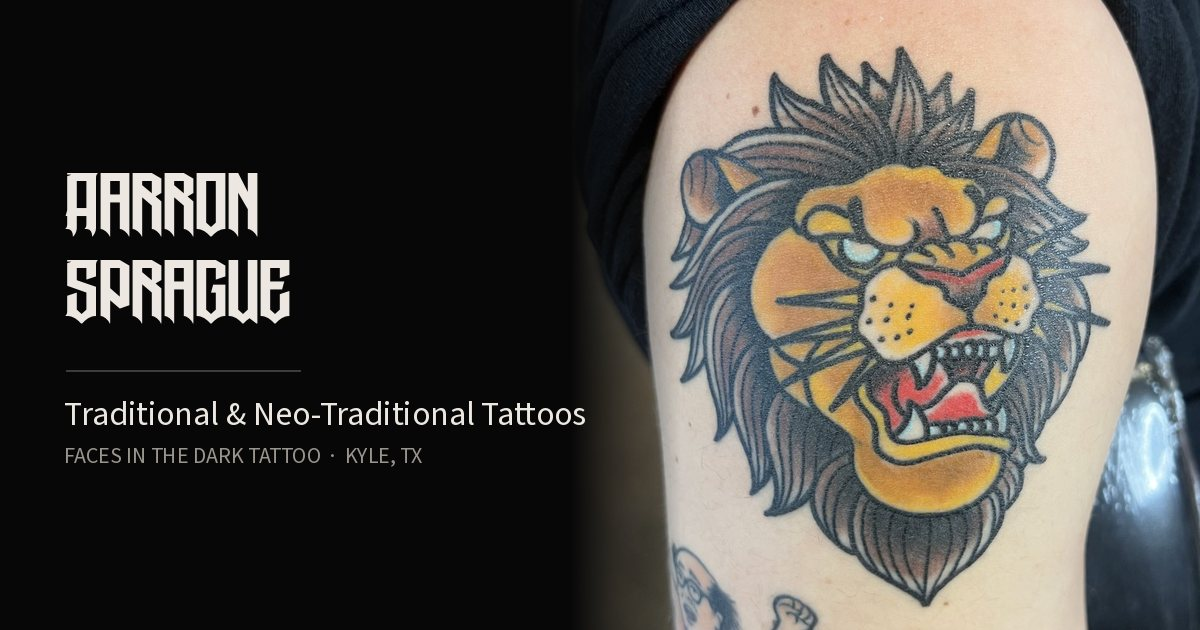
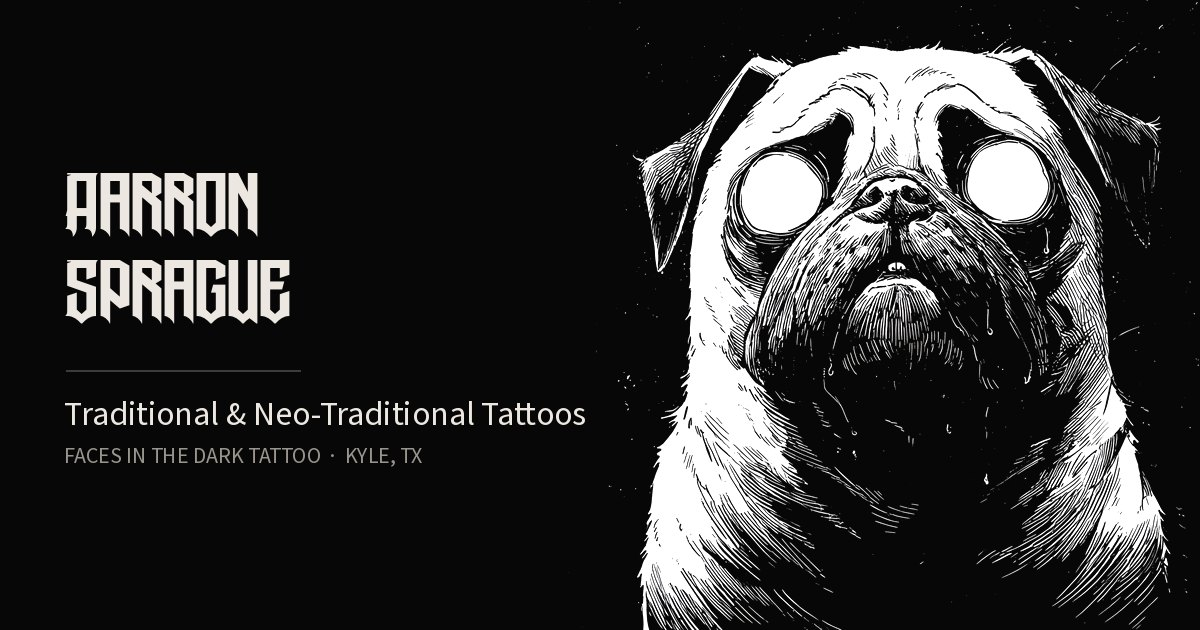
Swap og-image to the pug mascot; update og:image:alt text

diff --git a/work.html b/work.html
@@ -14,7 +14,7 @@
   <meta property="og:image" content="https://aspraguetattoos.com/assets/og-image.jpg" />
   <meta property="og:image:width" content="1200" />
   <meta property="og:image:height" content="630" />
-  <meta property="og:image:alt" content="Neo-traditional lion tattoo by Aarron Sprague, Faces In The Dark Tattoo, Kyle TX" />
+  <meta property="og:image:alt" content="Aarron Sprague, traditional &amp; neo-traditional tattoos at Faces In The Dark Tattoo, Kyle TX, with his black and white pug mascot" />
   <meta name="twitter:card" content="summary_large_image" />
   <meta name="twitter:title" content="Tattoo Portfolio | Traditional &amp; Neo-Trad Work | Aarron Sprague, Kyle TX" />
   <meta name="twitter:description" content="Portfolio of traditional, neo-traditional, and black &amp; grey tattoos by Aarron Sprague at Faces In The Dark Tattoo in Kyle, TX. Full archive on Instagram." />

diff --git a/index.html b/index.html
@@ -14,7 +14,7 @@
   <meta property="og:image" content="https://aspraguetattoos.com/assets/og-image.jpg" />
   <meta property="og:image:width" content="1200" />
   <meta property="og:image:height" content="630" />
-  <meta property="og:image:alt" content="Neo-traditional lion tattoo by Aarron Sprague, Faces In The Dark Tattoo, Kyle TX" />
+  <meta property="og:image:alt" content="Aarron Sprague, traditional &amp; neo-traditional tattoos at Faces In The Dark Tattoo, Kyle TX, with his black and white pug mascot" />
   <meta name="twitter:card" content="summary_large_image" />
   <meta name="twitter:title" content="Kyle, TX Tattoo Artist | Traditional &amp; Neo-Trad | Aarron Sprague" />
   <meta name="twitter:description" content="Bold traditional &amp; neo-traditional tattoos by Aarron Sprague at Faces In The Dark Tattoo in Kyle, TX. Near Austin, Buda &amp; San Marcos. Book today." />

diff --git a/booking.html b/booking.html
@@ -14,7 +14,7 @@
   <meta property="og:image" content="https://aspraguetattoos.com/assets/og-image.jpg" />
   <meta property="og:image:width" content="1200" />
   <meta property="og:image:height" content="630" />
-  <meta property="og:image:alt" content="Neo-traditional lion tattoo by Aarron Sprague, Faces In The Dark Tattoo, Kyle TX" />
+  <meta property="og:image:alt" content="Aarron Sprague, traditional &amp; neo-traditional tattoos at Faces In The Dark Tattoo, Kyle TX, with his black and white pug mascot" />
   <meta name="twitter:card" content="summary_large_image" />
   <meta name="twitter:title" content="Book a Tattoo in Kyle, TX | Booking | Aarron Sprague" />
   <meta name="twitter:description" content="How to book a traditional or neo-traditional tattoo with Aarron Sprague at Faces In The Dark Tattoo in Kyle, TX. Books reopen mid-November. Join the waitlist." />

diff --git a/healing.html b/healing.html
@@ -14,7 +14,7 @@
   <meta property="og:image" content="https://aspraguetattoos.com/assets/og-image.jpg" />
   <meta property="og:image:width" content="1200" />
   <meta property="og:image:height" content="630" />
-  <meta property="og:image:alt" content="Neo-traditional lion tattoo by Aarron Sprague, Faces In The Dark Tattoo, Kyle TX" />
+  <meta property="og:image:alt" content="Aarron Sprague, traditional &amp; neo-traditional tattoos at Faces In The Dark Tattoo, Kyle TX, with his black and white pug mascot" />
   <meta name="twitter:card" content="summary_large_image" />
   <meta name="twitter:title" content="Tattoo Aftercare &amp; Healing Guide | Aarron Sprague, Kyle TX" />
   <meta name="twitter:description" content="Tattoo aftercare from Aarron Sprague: Derm Shield and regular wrap instructions, what to expect over the first few weeks, and when to see a doctor." />

diff --git a/contact.html b/contact.html
@@ -14,7 +14,7 @@
   <meta property="og:image" content="https://aspraguetattoos.com/assets/og-image.jpg" />
   <meta property="og:image:width" content="1200" />
   <meta property="og:image:height" content="630" />
-  <meta property="og:image:alt" content="Neo-traditional lion tattoo by Aarron Sprague, Faces In The Dark Tattoo, Kyle TX" />
+  <meta property="og:image:alt" content="Aarron Sprague, traditional &amp; neo-traditional tattoos at Faces In The Dark Tattoo, Kyle TX, with his black and white pug mascot" />
   <meta name="twitter:card" content="summary_large_image" />
   <meta name="twitter:title" content="Contact | Faces In The Dark Tattoo, Kyle TX | Aarron Sprague" />
   <meta name="twitter:description" content="Faces In The Dark Tattoo, 121 Hall Professional Center, Suite E, Kyle, TX 78640. Call (512) 504-9988 or reach Aarron Sprague by email or social." />

diff --git a/waitlist.html b/waitlist.html
@@ -14,7 +14,7 @@
   <meta property="og:image" content="https://aspraguetattoos.com/assets/og-image.jpg" />
   <meta property="og:image:width" content="1200" />
   <meta property="og:image:height" content="630" />
-  <meta property="og:image:alt" content="Neo-traditional lion tattoo by Aarron Sprague, Faces In The Dark Tattoo, Kyle TX" />
+  <meta property="og:image:alt" content="Aarron Sprague, traditional &amp; neo-traditional tattoos at Faces In The Dark Tattoo, Kyle TX, with his black and white pug mascot" />
   <meta name="twitter:card" content="summary_large_image" />
   <meta name="twitter:title" content="Join the Waitlist | Aarron Sprague Tattoo, Kyle TX" />
   <meta name="twitter:description" content="Books reopen mid-November. Join the free waitlist for Aarron Sprague at Faces In The Dark Tattoo in Kyle, TX and get first pick of dates for 48 hours." />

diff --git a/guest.html b/guest.html
@@ -14,7 +14,7 @@
   <meta property="og:image" content="https://aspraguetattoos.com/assets/og-image.jpg" />
   <meta property="og:image:width" content="1200" />
   <meta property="og:image:height" content="630" />
-  <meta property="og:image:alt" content="Neo-traditional lion tattoo by Aarron Sprague, Faces In The Dark Tattoo, Kyle TX" />
+  <meta property="og:image:alt" content="Aarron Sprague, traditional &amp; neo-traditional tattoos at Faces In The Dark Tattoo, Kyle TX, with his black and white pug mascot" />
   <meta name="twitter:card" content="summary_large_image" />
   <meta name="twitter:title" content="Guest Spots &amp; Travel Dates | Aarron Sprague Tattoo" />
   <meta name="twitter:description" content="Upcoming guest spots and travel dates for Kyle, TX tattoo artist Aarron Sprague, including Exclusive Tattoo in Corpus Christi, Texas." />

diff --git a/thanks.html b/thanks.html
@@ -15,7 +15,7 @@
   <meta property="og:image" content="https://aspraguetattoos.com/assets/og-image.jpg" />
   <meta property="og:image:width" content="1200" />
   <meta property="og:image:height" content="630" />
-  <meta property="og:image:alt" content="Neo-traditional lion tattoo by Aarron Sprague, Faces In The Dark Tattoo, Kyle TX" />
+  <meta property="og:image:alt" content="Aarron Sprague, traditional &amp; neo-traditional tattoos at Faces In The Dark Tattoo, Kyle TX, with his black and white pug mascot" />
   <meta name="twitter:card" content="summary_large_image" />
   <meta name="twitter:title" content="Thanks, You&rsquo;re on the List | Aarron Sprague" />
   <meta name="twitter:description" content="Thanks for joining the waitlist for Aarron Sprague at Faces In The Dark Tattoo in Kyle, TX." />
